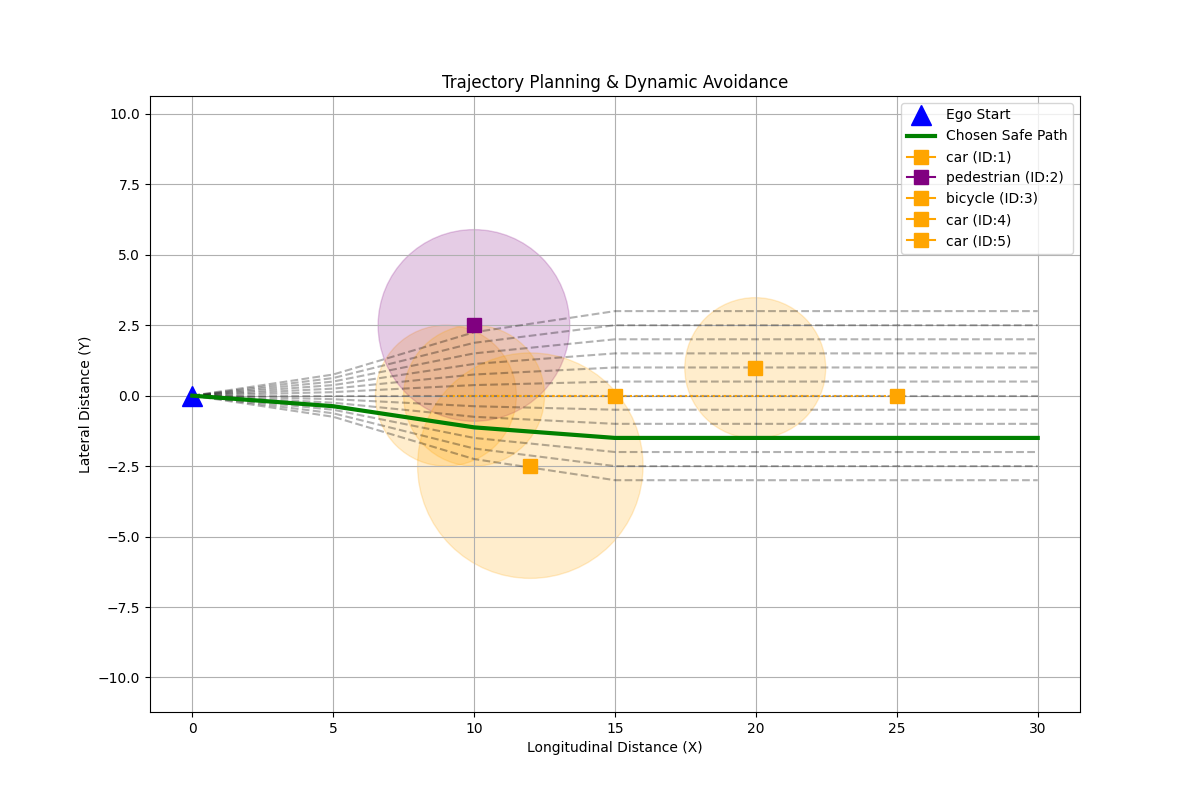
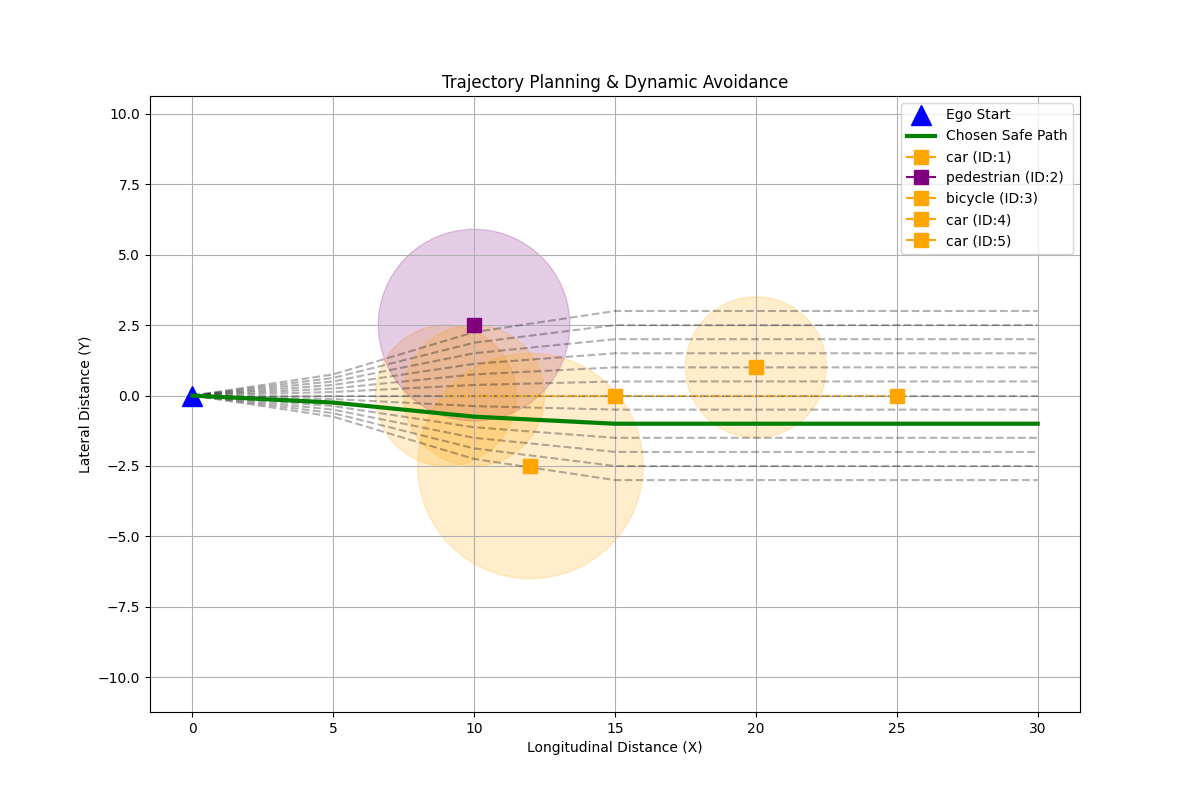
feat(model): add object planner for continuous TTC tracking and update dummy data scene

Changed region(s): [[0.2158, 0.5, 0.8633, 0.5625], [0.0925, 0.75, 0.1233, 0.7812], [0.0925, 0.5625, 0.1233, 0.5938]]

diff --git a/object_risk_score/object_planner.py b/object_risk_score/object_planner.py
@@ -1,0 +1,149 @@
+import numpy as np
+import matplotlib.pyplot as plt
+import matplotlib.patches as patches
+
+# Import the class rules and WorldObject from trajectory_planner
+from trajectory_planner import CLASS_RULES, WorldObject, predict_obstacle_trajectories
+
+def calculate_ttc(predicted_obs, ego_speed, time_horizon, dt=0.5):
+    """
+    Calculates the exact Time-To-Collision (TTC) for each object.
+    Assumes Ego Vehicle travels strictly forward at ego_speed (offset = 0.0m).
+    """
+    ttc_results = {}
+    
+    for obj_id, traj in predicted_obs.items():
+        ttc = float('inf')
+        for state in traj:
+            t = state['time']
+            # Ego vehicle position at time t
+            ego_x = ego_speed * t
+            ego_y = 0.0 # Strict longitudinal path
+            
+            # Distance between Ego and Object at time t
+            dist = np.sqrt((ego_x - state['x'])**2 + (ego_y - state['y'])**2)
+            
+            # If distance is less than the uncertainty radius + vehicle width threshold
+            if dist < state['radius'] + 1.0: # 1.0m is rough ego half-width
+                ttc = t
+                break
+                
+        ttc_results[obj_id] = ttc
+        
+    return ttc_results
+
+def plot_object_trajectories(objects, predicted_obs, ttc_results, ego_speed, time_horizon, dt=0.5):
+    """
+    Custom visualization tailored for threat assessment and TTC.
+    """
+    plt.figure(figsize=(12, 8))
+    
+    # 1. Plot Ego Vehicle Path
+    ego_xs = [ego_speed * t for t in np.arange(0, time_horizon + dt, dt)]
+    ego_ys = [0.0 for _ in ego_xs]
+    plt.plot(ego_xs, ego_ys, 'b--', linewidth=2, label='Ego Projected Path')
+    plt.plot(0, 0, 'b^', markersize=15, label='Ego Vehicle')
+    
+    # 2. Plot Objects and their Trajectories
+    for obj in objects:
+        traj = predicted_obs[obj.obj_id]
+        ttc = ttc_results[obj.obj_id]
+        
+        # Color coding: Red if TTC < 2.0s, else Orange (Dynamic) or Gray (Static)
+        if ttc < 2.0:
+            color = 'red'
+            status = 'CRITICAL'
+        elif obj.hard_boundary or obj.name in ['pothole']:
+            color = 'gray'
+            status = 'STATIC'
+        else:
+            color = 'orange'
+            status = 'DYNAMIC'
+            
+        # Plot center at t=0
+        plt.plot(obj.x, obj.y, marker='s', color=color, markersize=10, label=f'{obj.name} (ID:{obj.obj_id})' if obj.obj_id == 1 else "")
+        
+        # Plot predicted expansion (uncertainty) at t=max
+        final_state = traj[-1]
+        circle = patches.Circle((final_state['x'], final_state['y']), final_state['radius'], 
+                              linewidth=1, edgecolor=color, facecolor=color, alpha=0.1)
+        plt.gca().add_patch(circle)
+        
+        # Draw dotted line for predicted movement path
+        oxs = [p['x'] for p in traj]
+        oys = [p['y'] for p in traj]
+        plt.plot(oxs, oys, color=color, linestyle='-', linewidth=2, alpha=0.6)
+        
+        # Annotate TTC directly above object
+        ttc_str = f"TTC: {ttc:.1f}s" if ttc != float('inf') else "TTC: SAFE"
+        plt.text(obj.x, obj.y + 1.5, f"[{status}]\n{ttc_str}", 
+                 color=color, fontsize=9, fontweight='bold', ha='center')
+        
+    plt.title('Object Planner: Threat Assessment & TTC')
+    plt.xlabel('Longitudinal Distance (X)')
+    plt.ylabel('Lateral Distance (Y)')
+    plt.grid(True)
+    
+    # Avoid duplicate labels in legend
+    handles, labels = plt.gca().get_legend_handles_labels()
+    by_label = dict(zip(labels, handles))
+    plt.legend(by_label.values(), by_label.keys(), loc='upper left')
+    
+    plt.axis('equal')
+    plt.savefig('object_planner_output.png')
+    print("Saved plot to object_planner_output.png")
+
+def main():
+    print("Initializing Object Planner & Threat Assessment Node...")
+    
+    # Mock World State (Crowded Scene from Sensor Fusion at Frame 0)
+    objects = [
+        WorldObject(obj_id=1, class_id=0, x=15.0, y=0.0, vx=-2.0, vy=0.0, risk_score=50), # Center Car
+        WorldObject(obj_id=2, class_id=6, x=10.0, y=2.5, vx=0.0, vy=0.0, risk_score=50),  # Pedestrian
+        WorldObject(obj_id=3, class_id=5, x=12.0, y=-2.5, vx=0.0, vy=0.0, risk_score=50), # Bicycle
+        WorldObject(obj_id=4, class_id=0, x=20.0, y=1.0, vx=0.0, vy=0.0, risk_score=50),  # Pothole
+        WorldObject(obj_id=5, class_id=0, x=25.0, y=0.0, vx=-5.0, vy=0.0, risk_score=50), # Truck
+    ]
+    
+    time_horizon = 3.0
+    ego_speed = 10.0 # 10 m/s relative speed
+    
+    # Simulate 5 continuous frames (e.g., polling sensors at dt = 0.5s)
+    num_frames = 5
+    dt = 0.5
+    
+    for frame in range(1, num_frames + 1):
+        print(f"\n{'='*40}")
+        print(f"--- PROCESSING FRAME {frame} (Simulation Time: {(frame-1)*dt:.1f}s) ---")
+        
+        # 1. Predict Trajectories for the current frame
+        predicted_obs = predict_obstacle_trajectories(objects, time_horizon)
+        
+        # 2. Calculate TTC based on current positions
+        ttc_results = calculate_ttc(predicted_obs, ego_speed, time_horizon)
+        
+        for obj in objects:
+            ttc = ttc_results[obj.obj_id]
+            if ttc < 2.0:
+                print(f"  [!] CRITICAL THREAT: {obj.name.upper()} (ID: {obj.obj_id}) - TTC: {ttc:.1f}s")
+            elif ttc != float('inf'):
+                print(f"  [+] WARNING: {obj.name.upper()} (ID: {obj.obj_id}) - TTC: {ttc:.1f}s")
+            else:
+                print(f"  [-] SAFE: {obj.name.upper()} (ID: {obj.obj_id}) - No Collision Predicted.")
+                
+        # 3. Step Physics forward for the next frame
+        # In a real system, sensor fusion would provide completely new object coordinates here.
+        # We simulate this by mathematically driving the objects forward by their velocity.
+        for obj in objects:
+            if not obj.hard_boundary and obj.name not in ['pothole']:
+                # The Ego vehicle is moving at 10 m/s.
+                # To maintain relative coordinates (Ego is always at 0,0), we subtract Ego's movement from the objects.
+                obj.x += (obj.vx - ego_speed) * dt
+                obj.y += obj.vy * dt
+                
+    # Visualize the FINAL frame state
+    plot_object_trajectories(objects, predicted_obs, ttc_results, ego_speed, time_horizon)
+    print("\nSimulated Continuous Tracking Complete.")
+
+if __name__ == "__main__":
+    main()

diff --git a/object_risk_score/trajectory_planner.py b/object_risk_score/trajectory_planner.py
@@ -229,10 +229,11 @@ def plot_scene(objects, best_traj, all_trajs, predicted_obs):
 def main():
     # 1. Mock the World State (Fusion of Radar + Camera Semantic Class)
     objects = [
-        # Road region straight ahead (Class 8)
-        WorldObject(obj_id=1, class_id=8, x=15.0, y=0.0, vx=-5.0, vy=0.0, risk_score=5),
-        # Guard Rail off to the side (Class 15)
-        WorldObject(obj_id=2, class_id=15, x=21.7, y=12.5, vx=0.0, vy=0.0, risk_score=20)
+        WorldObject(obj_id=1, class_id=0, x=15.0, y=0.0, vx=-2.0, vy=0.0, risk_score=50), # Center Car
+        WorldObject(obj_id=2, class_id=6, x=10.0, y=2.5, vx=0.0, vy=0.0, risk_score=50),  # Pedestrian
+        WorldObject(obj_id=3, class_id=5, x=12.0, y=-2.5, vx=0.0, vy=0.0, risk_score=50), # Bicycle
+        WorldObject(obj_id=4, class_id=0, x=20.0, y=1.0, vx=0.0, vy=0.0, risk_score=50),  # Pothole
+        WorldObject(obj_id=5, class_id=0, x=25.0, y=0.0, vx=-5.0, vy=0.0, risk_score=50), # Truck
     ]
     
     time_horizon = 3.0

diff --git a/object_risk_score/simulink_controls.m b/object_risk_score/simulink_controls.m
@@ -1,7 +1,7 @@
 % Auto-generated by Sensor Fusion & Trajectory Engine
 
 time_vector = [0.0; 0.5; 1.0; 1.5; 2.0; 2.5; 3.0];
-steer_vector = [-0.0; -0.2267; -0.2267; -0.0; 0.2267; 0.2267; 0.0]; % radians
+steer_vector = [-0.0; -0.1511; -0.1511; -0.0; 0.1511; 0.1511; 0.0]; % radians
 accel_vector = [0.0; 0.0; 0.0; 0.0; 0.0; 0.0; 0.0]; % m/s^2
 
 % Create timeseries objects for Simulink FromWorkspace blocks
